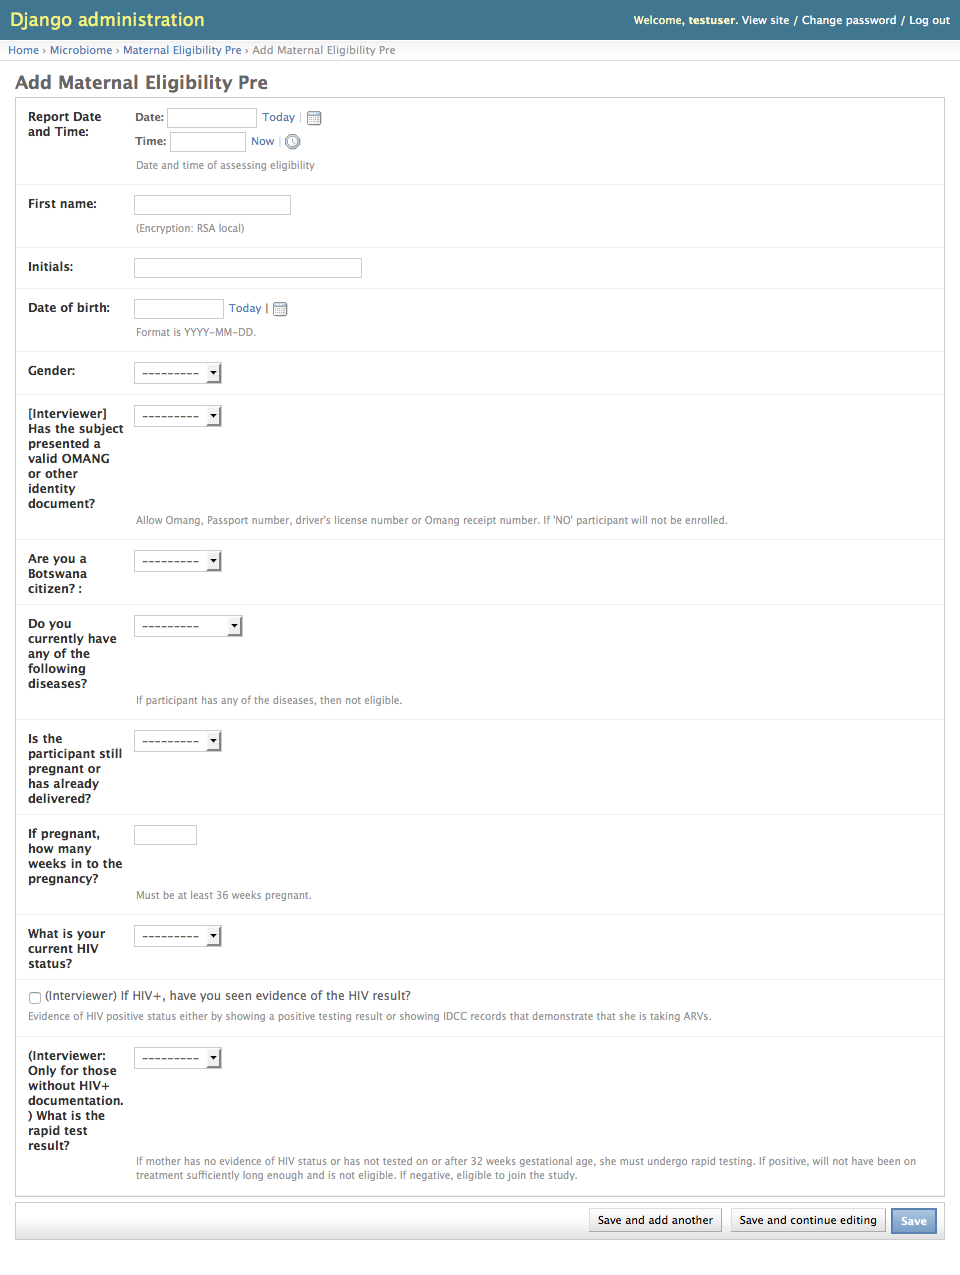
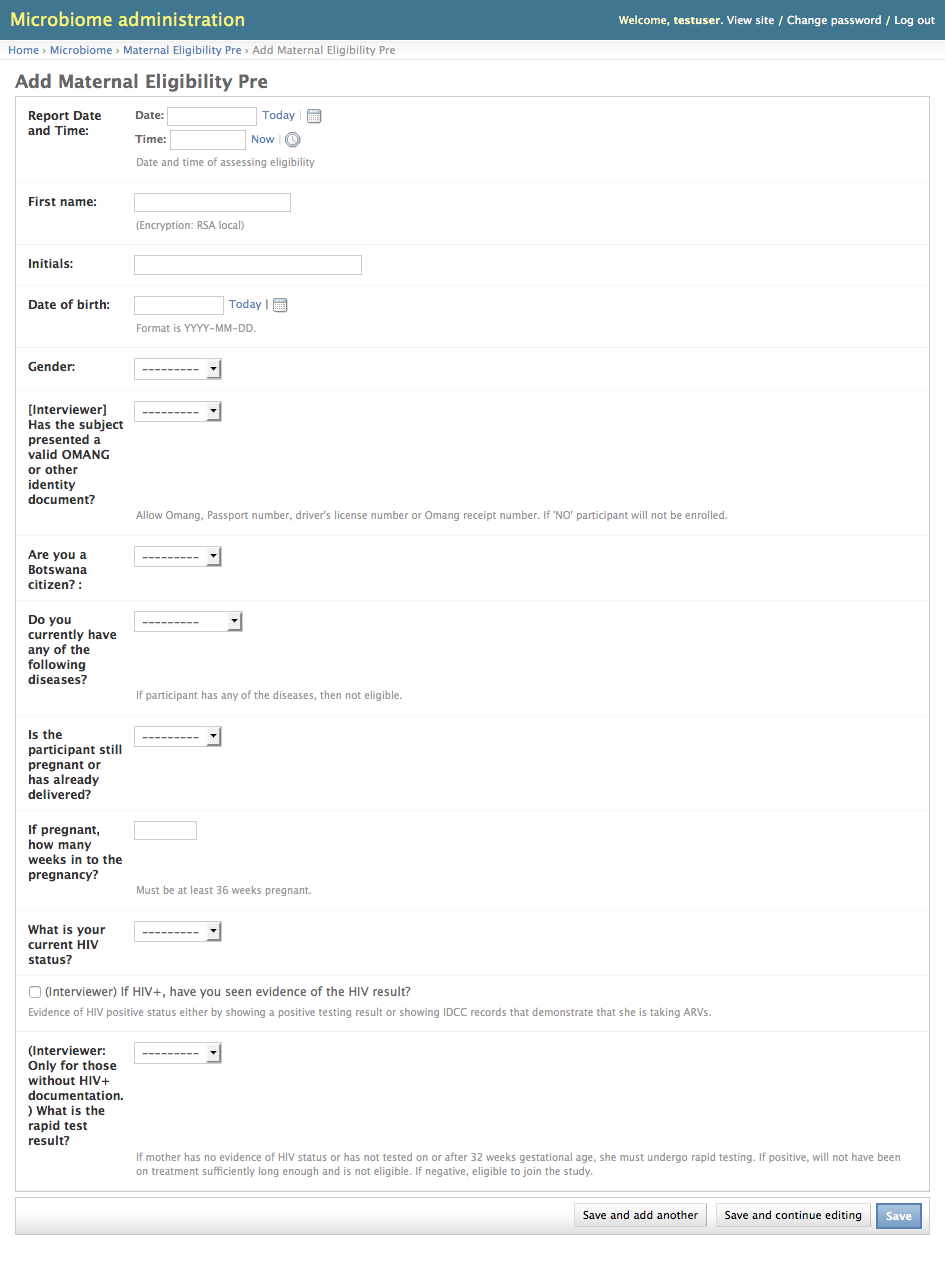
add custom admin site

diff --git a/microbiome/admin/infant_congenital_anomalies_admin.py b/microbiome/admin/infant_congenital_anomalies_admin.py
@@ -1,5 +1,7 @@
 from django.contrib import admin
 
+from .site import admin_site
+
 from ..models import (
     InfantCongenitalAnomalies, InfantCnsAbnormalityItems, InfantFacialDefectItems,
     InfantCleftDisorderItems, InfantMouthUpGastrointestinalItems, InfantCardiovascularDisorderItems,
@@ -9,87 +11,101 @@ from ..models import (
 )
 
 
-@admin.register(InfantCongenitalAnomalies)
-class InfantCongenitalAnomalies(admin.ModelAdmin):
+class InfantCongenitalAnomaliesAdmin(admin.ModelAdmin):
 
     list_display = ('infant_visit',)
 
+admin_site.register(InfantCongenitalAnomalies, InfantCongenitalAnomaliesAdmin)
 
-@admin.register(InfantCnsAbnormalityItems)
+
 class InfantCnsAbnormalityItemsAdmin(admin.ModelAdmin):
 
     list_display = ('congenital_anomalies', 'abnormality_status',)
 
     list_filter = ('cns_abnormality',)
 
+admin_site.register(InfantCnsAbnormalityItems, InfantCnsAbnormalityItemsAdmin)
 
-@admin.register(InfantFacialDefectItems)
+
 class InfantFacialDefectItemsAdmin(admin.ModelAdmin):
 
     list_display = ('congenital_anomalies',)
 
+admin_site.register(InfantFacialDefectItems, InfantFacialDefectItemsAdmin)
 
-@admin.register(InfantCleftDisorderItems)
+
 class InfantCleftDisorderItemsAdmin(admin.ModelAdmin):
 
     list_display = ('congenital_anomalies',)
 
+admin_site.register(InfantCleftDisorderItems, InfantCleftDisorderItemsAdmin)
 
-@admin.register(InfantMouthUpGastrointestinalItems)
+
 class InfantMouthUpGastrointestinalItemsAdmin(admin.ModelAdmin):
 
     list_display = ('congenital_anomalies',)
 
+admin_site.register(InfantMouthUpGastrointestinalItems, InfantMouthUpGastrointestinalItemsAdmin)
 
-@admin.register(InfantCardiovascularDisorderItems)
+
 class InfantCardiovascularDisorderItemsAdmin(admin.ModelAdmin):
 
     list_display = ('congenital_anomalies',)
 
+admin_site.register(InfantCardiovascularDisorderItems, InfantCardiovascularDisorderItemsAdmin)
 
-@admin.register(InfantRespiratoryDefectItems)
+
 class InfantRespiratoryDefectItemsAdmin(admin.ModelAdmin):
 
     list_display = ('congenital_anomalies',)
 
+admin_site.register(InfantRespiratoryDefectItems, InfantRespiratoryDefectItemsAdmin)
 
-@admin.register(InfantLowerGastrointestinalItems)
+
 class InfantLowerGastrointestinalItemsAdmin(admin.ModelAdmin):
 
     list_display = ('congenital_anomalies',)
 
+admin_site.register(InfantLowerGastrointestinalItems, InfantLowerGastrointestinalItemsAdmin)
 
-@admin.register(InfantFemaleGenitalAnomalyItems)
+
 class InfantFemaleGenitalAnomalyItemsAdmin(admin.ModelAdmin):
 
     list_display = ('congenital_anomalies',)
 
+admin_site.register(InfantFemaleGenitalAnomalyItems, InfantFemaleGenitalAnomalyItemsAdmin)
 
-@admin.register(InfantMaleGenitalAnomalyItems)
+
 class InfantMaleGenitalAnomalyItemsAdmin(admin.ModelAdmin):
 
     list_display = ('congenital_anomalies',)
 
+admin_site.register(InfantMaleGenitalAnomalyItems, InfantMaleGenitalAnomalyItemsAdmin)
 
-@admin.register(InfantRenalAnomalyItems)
+
 class InfantRenalAnomalyItemsAdmin(admin.ModelAdmin):
 
     list_display = ('congenital_anomalies',)
 
+admin_site.register(InfantRenalAnomalyItems, InfantRenalAnomalyItemsAdmin)
 
-@admin.register(InfantMusculoskeletalAbnormalItems)
+
 class InfantMusculoskeletalAbnormalItemsAdmin(admin.ModelAdmin):
 
     list_display = ('congenital_anomalies',)
 
+admin_site.register(InfantMusculoskeletalAbnormalItems, InfantMusculoskeletalAbnormalItemsAdmin)
 
-@admin.register(InfantSkinAbnormalItems)
+
 class InfantSkinAbnormalItemsAdmin(admin.ModelAdmin):
 
     list_display = ('congenital_anomalies',)
 
+admin_site.register(InfantSkinAbnormalItems, InfantSkinAbnormalItemsAdmin)
 
-@admin.register(InfantTrisomiesChromosomeItems)
+
 class InfantTrisomiesChromosomeItemsAdmin(admin.ModelAdmin):
 
     list_display = ('congenital_anomalies',)
+
+admin_site.register(InfantTrisomiesChromosomeItems, InfantTrisomiesChromosomeItemsAdmin)

diff --git a/microbiome/admin/__init__.py b/microbiome/admin/__init__.py
@@ -1,10 +1,7 @@
-from .subject_consent_admin import SubjectConsentAdmin
-from .maternal_eligibility_pre_admin import MaternalEligibilityPreAdmin
-from .maternal_eligibility_post_admin import MaternalEligibilityPost
+from .infant_birth_admin import InfantBirthAdmin
 from .infant_birth_arv_admin import InfantBirthArvAdmin
 from .infant_birth_exam_admin import InfantBirthExamAdmin
 from .infant_birth_feeding_admin import InfantBirthFeedVaccineAdmin
-from .infant_birth_admin import InfantBirthAdmin
 from .infant_congenital_anomalies_admin import (
     InfantCongenitalAnomalies, InfantCnsAbnormalityItemsAdmin,
     InfantFacialDefectItemsAdmin, InfantCleftDisorderItemsAdmin, InfantMouthUpGastrointestinalItemsAdmin,
@@ -15,3 +12,6 @@ from .infant_death_admin import InfantDeathAdmin
 from .infant_eligibility_admin import InfantEligibilityAdmin
 from .infant_off_study_admin import InfantOffStudyAdmin
 from .infant_visit_admin import InfantVisitAdmin
+from .maternal_eligibility_post_admin import MaternalEligibilityPost
+from .maternal_eligibility_pre_admin import MaternalEligibilityPreAdmin
+from .subject_consent_admin import SubjectConsentAdmin

diff --git a/microbiome/urls.py b/microbiome/urls.py
@@ -16,7 +16,7 @@ Including another URLconf
 
 from django.conf.urls import include, url
 from django.contrib import admin
-
+from microbiome.admin.site import admin_site
 from microbiome.views import (
     HomeView, SubjectDashboardView, login_view, logout_view, MaternalSearchView
 )
@@ -25,7 +25,7 @@ from microbiome.views import (
 admin.autodiscover()
 
 urlpatterns = [
-    url(r'^admin/', include(admin.site.urls)),
+    url(r'^admin/', include(admin_site.urls)),
     url(r'^accounts/login/', login_view),
     url(r'^login/', login_view, name='login_url'),
     url(r'^logout/', logout_view, name='logout_url'),

diff --git a/microbiome/admin/infant_birth_exam_admin.py b/microbiome/admin/infant_birth_exam_admin.py
@@ -1,9 +1,10 @@
 from django.contrib import admin
 
+from .site import admin_site
+
 from ..models import InfantBirthExam
 
 
-@admin.register(InfantBirthExam)
 class InfantBirthExamAdmin(admin.ModelAdmin):
 
     list_display = (
@@ -19,3 +20,4 @@ class InfantBirthExamAdmin(admin.ModelAdmin):
         'abnormal_activity',
         'physical_exam_result',
     )
+admin_site.register(InfantBirthExam, InfantBirthExamAdmin)

diff --git a/microbiome/admin/infant_birth_arv_admin.py b/microbiome/admin/infant_birth_arv_admin.py
@@ -1,11 +1,13 @@
 from django.contrib import admin
 
+from .site import admin_site
+
 from ..models import InfantBirthArv
 
 
-@admin.register(InfantBirthArv)
 class InfantBirthArvAdmin(admin.ModelAdmin):
 
     list_display = ('infant_birth', 'azt_dose_date',)
 
     list_filter = ('azt_after_birth', 'azt_dose_date', 'azt_additional_dose', 'sdnvp_after_birth',)
+admin_site.register(InfantBirthArv, InfantBirthArvAdmin)

diff --git a/microbiome/admin/infant_birth_feeding_admin.py b/microbiome/admin/infant_birth_feeding_admin.py
@@ -1,11 +1,13 @@
 from django.contrib import admin
 
+from .site import admin_site
+
 from ..models import InfantBirthFeedVaccine
 
 
-@admin.register(InfantBirthFeedVaccine)
 class InfantBirthFeedVaccineAdmin(admin.ModelAdmin):
 
     list_display = ('infant_birth', 'feeding_after_delivery',)
 
     list_filter = ('feeding_after_delivery',)
+admin_site.register(InfantBirthFeedVaccine, InfantBirthFeedVaccineAdmin)

diff --git a/microbiome/admin/infant_off_study_admin.py b/microbiome/admin/infant_off_study_admin.py
@@ -1,9 +1,10 @@
 from django.contrib import admin
 
+from .site import admin_site
+
 from ..models import InfantOffStudy
 
 
-@admin.register(InfantOffStudy)
 class InfantOffStudyAdmin(admin.ModelAdmin):
 
     list_display = (
@@ -15,3 +16,5 @@ class InfantOffStudyAdmin(admin.ModelAdmin):
     )
 
     list_filter = ('report_datetime', 'offstudy_date')
+
+admin_site.register(InfantOffStudy, InfantOffStudyAdmin)

diff --git a/microbiome/admin/infant_eligibility_admin.py b/microbiome/admin/infant_eligibility_admin.py
@@ -1,11 +1,14 @@
 from django.contrib import admin
 
+from .site import admin_site
+
 from ..models import InfantEligibility
 
 
-@admin.register(InfantEligibility)
 class InfantEligibilityAdmin(admin.ModelAdmin):
 
     list_display = ('maternal_enrollment_post', 'report_datetime',)
 
     list_filter = ('report_datetime',)
+
+admin_site.register(InfantEligibility, InfantEligibilityAdmin)

diff --git a/microbiome/admin/maternal_eligibility_post_admin.py b/microbiome/admin/maternal_eligibility_post_admin.py
@@ -1,8 +1,12 @@
 from django.contrib import admin
 
+from .site import admin_site
+
 from ..models import MaternalEligibilityPost
 
 
-@admin.register(MaternalEligibilityPost)
-class MaternalEligibilityPostPreAdmin(admin.ModelAdmin):
+class MaternalEligibilityPostAdmin(admin.ModelAdmin):
+
     pass
+
+admin_site.register(MaternalEligibilityPost, MaternalEligibilityPostAdmin)

diff --git a/microbiome/admin/infant_death_admin.py b/microbiome/admin/infant_death_admin.py
@@ -1,11 +1,14 @@
 from django.contrib import admin
 
+from .site import admin_site
+
 from ..models import InfantDeath
 
 
-@admin.register(InfantDeath)
 class InfantDeathAdmin(admin.ModelAdmin):
 
     list_display = ('study_drug_relate', 'infant_nvp_relate', 'haart_relate',)
 
     list_filter = ('study_drug_relate',)
+
+admin_site.register(InfantDeath, InfantDeathAdmin)

diff --git a/microbiome/admin/infant_birth_admin.py b/microbiome/admin/infant_birth_admin.py
@@ -1,9 +1,8 @@
 from django.contrib import admin
-
+from .site import admin_site
 from ..models import InfantBirth
 
 
-@admin.register(InfantBirth)
 class InfantBirthAdmin(admin.ModelAdmin):
 
     list_display = (
@@ -16,3 +15,4 @@ class InfantBirthAdmin(admin.ModelAdmin):
     )
 
     list_filter = ('gender',)
+admin_site.register(InfantBirth, InfantBirthAdmin)

diff --git a/microbiome/admin/infant_visit_admin.py b/microbiome/admin/infant_visit_admin.py
@@ -1,5 +1,7 @@
 from django.contrib import admin
 
+from .site import admin_site
+
 from ..models import InfantVisit
 
 
@@ -7,3 +9,5 @@ from ..models import InfantVisit
 class InfantVisitAdmin(admin.ModelAdmin):
 
     list_display = ('information_provider', 'information_provider_other', 'study_status')
+
+admin_site.register(InfantVisit, InfantVisitAdmin)
